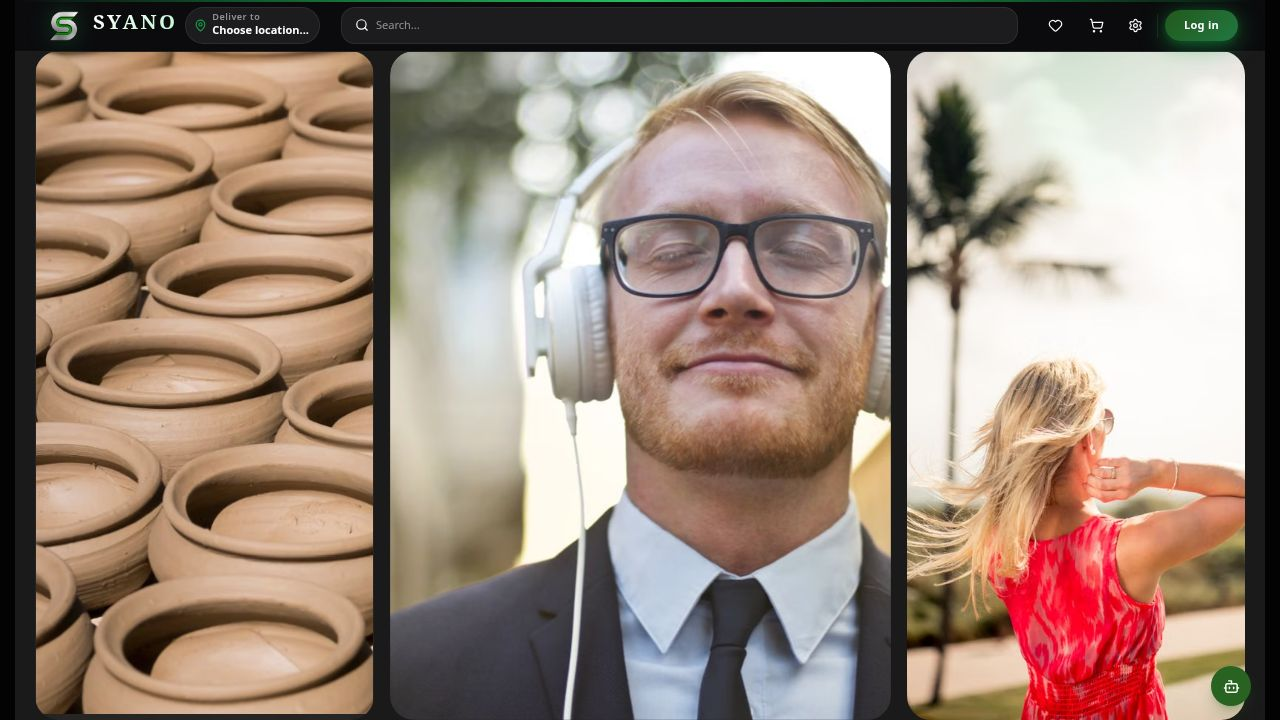
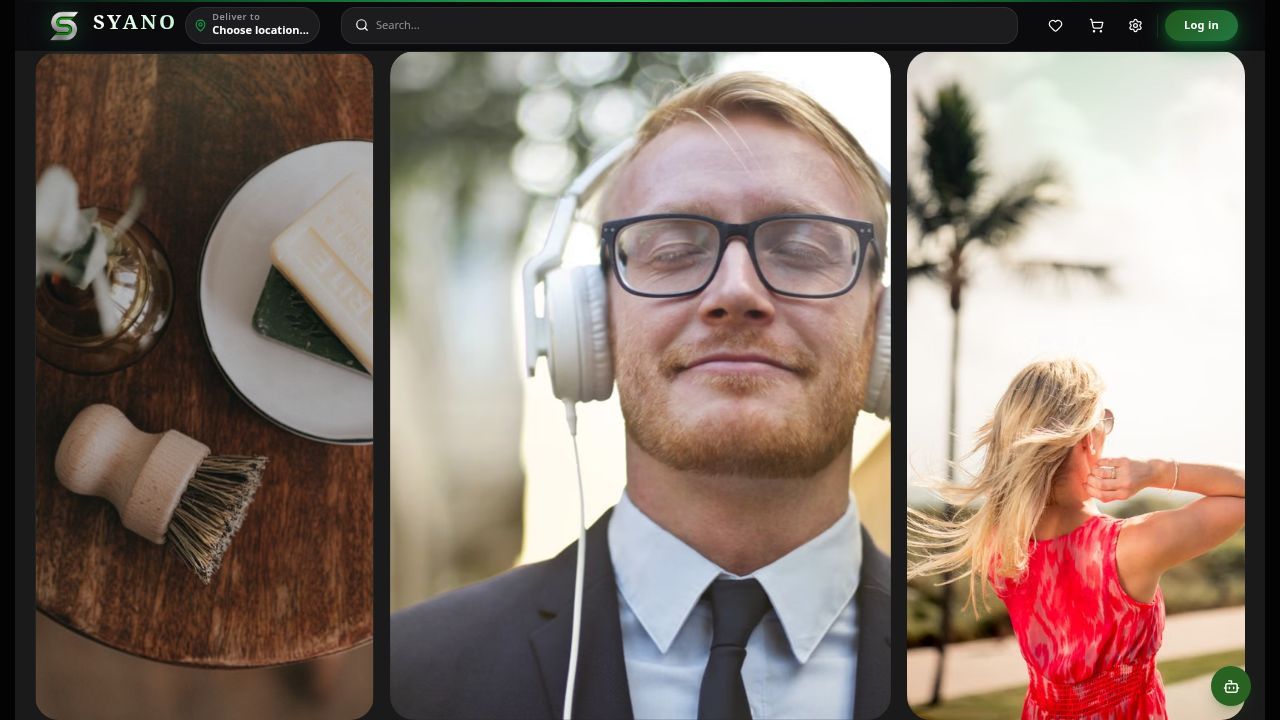
Update page styling to match Amazon's design and add free delivery text
Implement Amazon's color palette and styling for various sections, add a free delivery internationalization key, and refine product card appearance.

Replit-Commit-Author: Agent
Replit-Commit-Session-Id: 41072254-4bb2-4764-a614-758754c8e1fd
Replit-Commit-Checkpoint-Type: full_checkpoint
Replit-Commit-Event-Id: 6e24b812-11f0-4dce-88ef-951021056d8f
Replit-Commit-Screenshot-Url: https://storage.googleapis.com/screenshot-production-us-central1/65cc24d1-8488-4917-8083-2d32bd9a6540/41072254-4bb2-4764-a614-758754c8e1fd/zNmiafK
Replit-Helium-Checkpoint-Created: true

Changed region(s): [[0.0, 0.0611, 0.3125, 1.0]]

diff --git a/artifacts/marketplace/src/pages/luxury-landing.tsx b/artifacts/marketplace/src/pages/luxury-landing.tsx
@@ -184,6 +184,24 @@ const CL = {
   greenGlow:  "rgba(22,163,74,0.14)",
 } as const;
 
+/* ─── Amazon palette — used for mid-page sections (widget/carousel/stores) ───
+   Exactly matches Amazon.com: #EAEDED gray page, white panels, near-black text,
+   Amazon teal #007185 for links, red #B12704 for prices.                      */
+const CA = {
+  bg:         "#EAEDED",
+  card:       "#FFFFFF",
+  card2:      "#F0F2F2",
+  white:      "#0F1111",
+  offWhite:   "#111111",
+  muted:      "#565959",
+  dimmed:     "#888C8C",
+  border:     "#DDDDDD",
+  borderHov:  "#AAAAAA",
+  green:      "#007185",
+  greenAlpha: "rgba(0,113,133,0.08)",
+  greenGlow:  "rgba(0,113,133,0.15)",
+} as const;
+
 /* ─── Color token type — string-valued so both C (dark) and CL (light) fit ─*/
 type ColorTokens = { [K in keyof typeof C]: string };
 
@@ -447,8 +465,8 @@ function AmzSectionHeader({ title, seeAllKey, seeAllHref }: { title: string; see
 }
 
 /* ─── Amazon-style product card ──────────────────────────────────────────────
-   Image dominant square, price in green, discount badge top-right.
-   Optional rank badge (top-left) for best-sellers section.                  */
+   White panel, clean image, star rating row, red deal price.
+   Matches Amazon.com product card layout exactly.                            */
 const AmzProductCard = memo(function AmzProductCard({
   id, name, price, originalPrice, discountPercent, img, category, rank,
 }: {
@@ -456,37 +474,68 @@ const AmzProductCard = memo(function AmzProductCard({
   discountPercent?: number | null; img: string; category: string; rank?: number;
 }) {
   const { format } = useCurrency();
+  const { t } = useTranslation();
   const colors = useContext(LuxColorCtx);
+  /* Pseudo-random rating seeded from product id: 3.8 – 4.9 */
+  const rating  = Math.round((3.8 + (id % 11) * 0.1) * 10) / 10;
+  const reviews = ((id * 137 + 23) % 8800) + 120;
+  const fullStars  = Math.floor(rating);
+  const halfStar   = rating - fullStars >= 0.5;
+  const isDeal     = !!(discountPercent && discountPercent > 0);
+  const priceColor = isDeal ? "#B12704" : colors.white;
+
   return (
     <Link href={`/products/${id}`} style={{ display: "block", textDecoration: "none", height: "100%" }}>
-      <div className="amz-card-hover" style={{ background: colors.card, border: `1px solid ${colors.border}`, borderRadius: "8px", overflow: "hidden", boxShadow: "0 2px 6px rgba(0,0,0,0.11)", height: "100%", display: "flex", flexDirection: "column", transition: "box-shadow 0.2s, transform 0.18s" }}>
-        {/* Square image */}
-        <div style={{ position: "relative", aspectRatio: "1/1", overflow: "hidden", background: colors.card2, flexShrink: 0 }}>
-          {img && <img src={img} alt={name} loading="lazy" decoding="async" style={{ position: "absolute", inset: 0, width: "100%", height: "100%", objectFit: "cover", transition: "transform 0.45s" }} />}
-          {/* Rank badge (top-start) */}
-          {rank !== undefined && (
-            <div style={{ position: "absolute", top: 8, insetInlineStart: 8, width: 26, height: 26, borderRadius: "50%", background: rank < 3 ? colors.green : colors.card, border: rank < 3 ? "none" : `1.5px solid ${colors.border}`, display: "flex", alignItems: "center", justifyContent: "center", boxShadow: "0 1px 4px rgba(0,0,0,0.25)" }}>
-              <span style={{ fontFamily: F.sans, fontWeight: 900, fontSize: "0.65rem", color: rank < 3 ? "#fff" : colors.muted }}>{rank + 1}</span>
+      <div className="amz-card-hover" style={{ background: colors.card, border: `1px solid ${colors.border}`, borderRadius: 4, overflow: "hidden", height: "100%", display: "flex", flexDirection: "column" }}>
+        {/* ── Product image — no gradient, clean white bg ── */}
+        <div style={{ position: "relative", aspectRatio: "1/1", overflow: "hidden", background: "#fff", flexShrink: 0 }}>
+          {img
+            ? <img src={img} alt={name} loading="lazy" decoding="async" style={{ position: "absolute", inset: 0, width: "100%", height: "100%", objectFit: "contain", padding: 8 }} />
+            : <div style={{ position: "absolute", inset: 0, background: "#f0f0f0" }} />
+          }
+          {/* Discount badge */}
+          {isDeal && (
+            <div style={{ position: "absolute", top: 6, insetInlineEnd: 6, background: "#CC0C39", borderRadius: 3, padding: "2px 6px" }}>
+              <span style={{ fontFamily: F.sans, fontWeight: 700, fontSize: "0.65rem", color: "#fff" }}>-{discountPercent}%</span>
             </div>
           )}
-          {/* Discount badge (top-end) — only when no rank badge */}
-          {discountPercent && discountPercent > 0 && rank === undefined && (
-            <div style={{ position: "absolute", top: 8, insetInlineEnd: 8, background: "#CC0C39", borderRadius: "4px", padding: "2px 7px" }}>
-              <span style={{ fontFamily: F.sans, fontWeight: 800, fontSize: "0.65rem", color: "#fff" }}>-{discountPercent}%</span>
+          {/* Rank #1 Best Seller tag */}
+          {rank === 0 && (
+            <div style={{ position: "absolute", top: 0, insetInlineStart: 0, background: "#CC8700", padding: "2px 7px" }}>
+              <span style={{ fontFamily: F.sans, fontWeight: 700, fontSize: "0.6rem", color: "#fff", letterSpacing: "0.03em" }}>#1 Best Seller</span>
             </div>
           )}
         </div>
-        {/* Info */}
-        <div style={{ padding: "0.7rem 0.85rem 0.9rem", flex: 1, display: "flex", flexDirection: "column", gap: "0.25rem" }}>
-          {category && (
-            <p style={{ fontFamily: F.sans, fontWeight: 400, fontSize: "9px", color: colors.dimmed, margin: 0, textTransform: "uppercase", letterSpacing: "0.06em", whiteSpace: "nowrap", overflow: "hidden", textOverflow: "ellipsis" }}>{category}</p>
-          )}
-          <h3 style={{ fontFamily: F.sans, fontWeight: 600, fontSize: "0.82rem", color: colors.white, lineHeight: 1.45, margin: 0, display: "-webkit-box", WebkitLineClamp: 2, WebkitBoxOrient: "vertical", overflow: "hidden", flex: 1 }}>{name}</h3>
-          <div style={{ marginTop: "auto", paddingTop: "0.4rem" }}>
-            <div style={{ fontFamily: F.sans, fontWeight: 800, fontSize: "1rem", color: colors.green, letterSpacing: "-0.02em" }} translate="no">{format(price)}</div>
+        {/* ── Product info ── */}
+        <div style={{ padding: "8px 10px 12px", flex: 1, display: "flex", flexDirection: "column", gap: 3 }}>
+          {/* Name */}
+          <p style={{ fontFamily: F.sans, fontWeight: 400, fontSize: "0.82rem", color: colors.white, lineHeight: 1.4, margin: 0, display: "-webkit-box", WebkitLineClamp: 2, WebkitBoxOrient: "vertical", overflow: "hidden", flex: 1 }}>{name}</p>
+          {/* Stars */}
+          <div style={{ display: "flex", alignItems: "center", gap: 3, marginTop: 2 }}>
+            <span style={{ fontSize: "0.75rem", letterSpacing: "-1px", lineHeight: 1 }}>
+              {Array.from({ length: 5 }, (_, i) => (
+                <span key={i} style={{ color: i < fullStars ? "#FFA41C" : (i === fullStars && halfStar ? "#FFA41C" : "#DDD") }}>
+                  {i < fullStars ? "★" : (i === fullStars && halfStar ? "★" : "☆")}
+                </span>
+              ))}
+            </span>
+            <span style={{ fontFamily: F.sans, fontSize: "0.72rem", color: colors.green, textDecoration: "underline" }}>{reviews.toLocaleString()}</span>
+          </div>
+          {/* Price */}
+          <div style={{ marginTop: 4 }}>
+            <span style={{ fontFamily: F.sans, fontWeight: 700, fontSize: "1.05rem", color: priceColor }} translate="no">
+              {format(price)}
+            </span>
             {originalPrice && originalPrice > price && (
-              <div style={{ fontFamily: F.sans, fontSize: "0.7rem", color: colors.dimmed, textDecoration: "line-through", marginTop: "1px" }} translate="no">{format(originalPrice)}</div>
+              <div style={{ fontFamily: F.sans, fontSize: "0.72rem", color: colors.muted, textDecoration: "line-through" }} translate="no">
+                {format(originalPrice)}
+              </div>
             )}
+          </div>
+          {/* Prime badge (decorative) */}
+          <div style={{ display: "inline-flex", alignItems: "center", gap: 3, marginTop: 2 }}>
+            <span style={{ fontFamily: F.sans, fontSize: "0.65rem", fontStyle: "italic", fontWeight: 700, color: "#00A8E0", letterSpacing: "0.02em" }}>prime</span>
+            <span style={{ fontFamily: F.sans, fontSize: "0.65rem", color: colors.muted }}>{t("home.deals.free_delivery")}</span>
           </div>
         </div>
       </div>
@@ -495,46 +544,42 @@ const AmzProductCard = memo(function AmzProductCard({
 });
 
 /* ─── Amazon-style horizontal carousel row ────────────────────────────────────
-   Uses direction:ltr on the track (RTL carousel fix) so scroll always goes
-   left→right regardless of page dir. Arrow scroll direction never flips.     */
+   Arrow buttons are large semi-transparent circles (exactly like Amazon.com).
+   direction:ltr on track fixes RTL flex axis flip (see rtl-carousel-fix.md). */
 function AmzCarouselRow({ items }: { items: CarouselProduct[] }) {
   const trackRef = useRef<HTMLDivElement>(null);
   const { t } = useTranslation();
-  const colors   = useContext(LuxColorCtx);
 
   const scroll = (dir: -1 | 1) =>
     trackRef.current?.scrollBy({ left: dir * 220, behavior: "smooth" });
 
-  const arrowStyle: React.CSSProperties = {
-    background: colors.card,
-    border: `1px solid ${colors.border}`,
-    color: colors.white,
-    fontSize: "1.15rem",
-    lineHeight: 1,
-    fontWeight: 700,
-    cursor: "pointer",
-    padding: 0,
-    userSelect: "none",
-    WebkitUserSelect: "none",
+  const arrowBtn: React.CSSProperties = {
+    position: "absolute", top: "50%", transform: "translateY(-50%)",
+    zIndex: 10, width: 40, height: 40, borderRadius: "50%",
+    background: "rgba(255,255,255,0.97)",
+    border: "1px solid #D5D9D9",
+    boxShadow: "0 2px 5px 0 rgba(15,17,17,.20)",
+    color: "#0F1111", fontSize: "1.4rem", lineHeight: 1,
+    cursor: "pointer", padding: 0,
   };
-
   return (
-    <div style={{ display: "flex", alignItems: "center", gap: 8 }}>
-      <button className="amz-arrow-btn" aria-label={t("home.carousel.prev")} onClick={() => scroll(-1)} style={arrowStyle}>‹</button>
-      <div ref={trackRef} className="amz-carousel-track" style={{ flex: 1 }}>
+    <div style={{ position: "relative", padding: "0 28px" }}>
+      <button className="amz-arrow-btn" aria-label={t("home.carousel.prev")} onClick={() => scroll(-1)} style={{ ...arrowBtn, left: -4 }}>‹</button>
+      <div ref={trackRef} className="amz-carousel-track">
         {items.map((item, i) => (
           <div key={`${item.id}-${i}`} className="amz-carousel-item">
             <AmzProductCard {...item} />
           </div>
         ))}
       </div>
-      <button className="amz-arrow-btn" aria-label={t("home.carousel.next")} onClick={() => scroll(1)} style={arrowStyle}>›</button>
+      <button className="amz-arrow-btn" aria-label={t("home.carousel.next")} onClick={() => scroll(1)} style={{ ...arrowBtn, right: -4 }}>›</button>
     </div>
   );
 }
 
 /* ─── Amazon widget panel (single placard) ────────────────────────────────────
-   White card: bold title → 2×2 image sub-grid → "Shop more" link.           */
+   Exactly matches Amazon.com: bold dark title, 2×2 image+label grid,
+   blue "Shop more" link at the bottom. All on white `#FFFFFF` background.   */
 function AmzWidgetPanel({
   panel, index,
 }: {
@@ -542,50 +587,44 @@ function AmzWidgetPanel({
   index: number;
 }) {
   const { t } = useTranslation();
-  const colors = useContext(LuxColorCtx);
   return (
-    <motion.div
-      initial={{ opacity: 0, y: 18 }}
-      whileInView={{ opacity: 1, y: 0 }}
-      viewport={{ once: true, margin: "-20px" }}
-      transition={{ duration: 0.38, delay: index * 0.07, ease: fadeEase }}
-      style={{ background: colors.card, border: `1px solid ${colors.border}`, borderRadius: 8, display: "flex", flexDirection: "column", overflow: "hidden", boxShadow: "0 1px 4px rgba(0,0,0,0.08)" }}
-    >
-      {/* Title */}
-      <div style={{ padding: "14px 14px 10px" }}>
-        <h2 style={{ fontFamily: F.naskh, fontWeight: 800, fontSize: "clamp(0.92rem,1.6vw,1.05rem)", color: colors.white, margin: 0, whiteSpace: "nowrap", overflow: "hidden", textOverflow: "ellipsis" }}>
-          {t(panel.titleKey)}
-        </h2>
-      </div>
+    <div style={{ background: "#FFFFFF", borderRadius: 4, display: "flex", flexDirection: "column", overflow: "hidden", padding: "14px 14px 10px" }}>
+      {/* Bold title */}
+      <h2 style={{ fontFamily: F.naskh, fontWeight: 700, fontSize: "clamp(0.9rem,1.6vw,1.05rem)", color: "#0F1111", margin: "0 0 12px", whiteSpace: "nowrap", overflow: "hidden", textOverflow: "ellipsis" }}>
+        {t(panel.titleKey)}
+      </h2>
       {/* 2×2 image grid */}
-      <div className="amz-widget-2x2" style={{ padding: "0 8px", flex: 1 }}>
+      <div className="amz-widget-2x2" style={{ flex: 1, gap: 6 }}>
         {panel.items.map((item, i) => (
           <Link key={i} href={panel.seeAllHref} style={{ display: "block", textDecoration: "none" }}>
-            <div style={{ aspectRatio: "1/1", overflow: "hidden", borderRadius: 3, background: colors.card2 }}>
-              <img src={item.img} alt={t(item.labelKey)} loading={index === 0 && i < 2 ? "eager" : "lazy"} decoding="async"
-                style={{ width: "100%", height: "100%", objectFit: "cover", display: "block" }} />
+            <div style={{ aspectRatio: "1/1", overflow: "hidden", borderRadius: 3, background: "#F0F2F2" }}>
+              <img
+                src={item.img}
+                alt={t(item.labelKey)}
+                loading={index === 0 && i < 2 ? "eager" : "lazy"}
+                decoding="async"
+                style={{ width: "100%", height: "100%", objectFit: "cover", display: "block" }}
+              />
             </div>
-            <p style={{ fontFamily: F.sans, fontWeight: 400, fontSize: "10px", color: colors.muted, margin: "3px 0 5px", textAlign: "center", overflow: "hidden", textOverflow: "ellipsis", whiteSpace: "nowrap" }}>
+            <p style={{ fontFamily: F.sans, fontWeight: 400, fontSize: "11px", color: "#0F1111", margin: "4px 0 6px", textAlign: "center", overflow: "hidden", textOverflow: "ellipsis", whiteSpace: "nowrap" }}>
               {t(item.labelKey)}
             </p>
           </Link>
         ))}
       </div>
-      {/* "See more" footer */}
-      <div style={{ padding: "8px 14px 14px" }}>
-        <Link href={panel.seeAllHref}
-          style={{ fontFamily: F.sans, fontWeight: 500, fontSize: "0.78rem", color: colors.green, textDecoration: "none", display: "inline-flex", alignItems: "center", gap: 4 }}>
-          {t("home.categories.see_all")} <ArrowLeft style={{ width: 11, height: 11 }} />
+      {/* "See more" link — Amazon teal */}
+      <div style={{ marginTop: 8 }}>
+        <Link href={panel.seeAllHref} style={{ fontFamily: F.sans, fontWeight: 400, fontSize: "0.8rem", color: "#007185", textDecoration: "none" }}>
+          {t("home.categories.see_all")} →
         </Link>
       </div>
-    </motion.div>
+    </div>
   );
 }
 
-/** Countdown timer for deals section */
+/** Countdown timer for deals section — Amazon red style */
 function LuxCountdownTimer() {
   const { t } = useTranslation();
-  const colors = useContext(LuxColorCtx);
   const [time, setTime] = useState({ h: 8, m: 24, s: 37 });
   useEffect(() => {
     const id = setInterval(() => {
@@ -598,16 +637,16 @@ function LuxCountdownTimer() {
     return () => clearInterval(id);
   }, []);
   return (
-    <div style={{ display: "flex", alignItems: "center", gap: "0.5rem", marginTop: "0.75rem" }}>
-      <Timer style={{ width: 13, height: 13, color: colors.dimmed, flexShrink: 0 }} />
-      <span style={{ fontFamily: F.sans, fontSize: "0.75rem", color: colors.dimmed }}>{t("home.deals.ends_in")}</span>
-      <div style={{ display: "flex", alignItems: "center", gap: "4px" }}>
+    <div style={{ display: "flex", alignItems: "center", gap: "0.4rem" }}>
+      <Timer style={{ width: 13, height: 13, color: "#CC0C39", flexShrink: 0 }} />
+      <span style={{ fontFamily: F.sans, fontSize: "0.75rem", color: "#565959" }}>{t("home.deals.ends_in")}</span>
+      <div style={{ display: "flex", alignItems: "center", gap: "2px" }}>
         {[pad(time.h), pad(time.m), pad(time.s)].map((val, i) => (
-          <span key={i} style={{ display: "flex", alignItems: "center", gap: "4px" }}>
-            <span style={{ fontWeight: 700, fontSize: "0.78rem", fontVariantNumeric: "tabular-nums", color: colors.white, background: colors.greenAlpha, border: `1px solid ${colors.border}`, padding: "2px 8px", borderRadius: "6px", minWidth: "2rem", textAlign: "center", letterSpacing: "0.04em" }}>
+          <span key={i} style={{ display: "flex", alignItems: "center", gap: "2px" }}>
+            <span style={{ fontFamily: F.sans, fontWeight: 700, fontSize: "0.82rem", fontVariantNumeric: "tabular-nums", color: "#CC0C39", background: "#FFF0EE", border: "1px solid #FFBDAD", padding: "1px 6px", borderRadius: 3, minWidth: "1.8rem", textAlign: "center" }}>
               {val}
             </span>
-            {i < 2 && <span style={{ color: colors.dimmed, fontWeight: 700, fontSize: "0.8rem" }}>:</span>}
+            {i < 2 && <span style={{ color: "#CC0C39", fontWeight: 700, fontSize: "0.9rem", lineHeight: 1 }}>:</span>}
           </span>
         ))}
       </div>
@@ -685,7 +724,7 @@ const AmzWidgetSection = memo(function AmzWidgetSection() {
   const { i18n } = useTranslation();
   const colors = useContext(LuxColorCtx);
   return (
-    <section style={{ background: colors.bg, padding: "14px 0 0", borderTop: `1px solid ${colors.border}` }} dir={i18n.dir()}>
+    <section style={{ background: colors.bg, padding: "12px 0 0" }} dir={i18n.dir()}>
       <div className="amz-section">
         <div className="amz-widget-grid" style={{ paddingBottom: 14 }}>
           {WIDGET_PANELS.map((panel, i) => (
@@ -777,11 +816,13 @@ const LuxStoresSection = memo(function LuxStoresSection() {
   })), [stores, t]);
 
   return (
-    <section style={{ background: colors.bg, padding: "2.25rem 0", borderTop: `1px solid ${colors.border}` }} dir={i18n.dir()}>
+    <section style={{ background: colors.bg, padding: "14px 0" }} dir={i18n.dir()}>
       <div className="amz-section">
-        <AmzSectionHeader title={t("home.stores.title")} seeAllKey="home.stores.see_all" seeAllHref="/sellers/directory" />
-        <div className="amz-stores-3">
-          {displayStores.map((store, i) => <LuxStoreCard key={store.id} store={store} index={i} />)}
+        <div style={{ background: colors.card, borderRadius: 4, padding: "14px 16px 20px" }}>
+          <AmzSectionHeader title={t("home.stores.title")} seeAllKey="home.stores.see_all" seeAllHref="/sellers/directory" />
+          <div className="amz-stores-3">
+            {displayStores.map((store, i) => <LuxStoreCard key={store.id} store={store} index={i} />)}
+          </div>
         </div>
       </div>
     </section>
@@ -1351,12 +1392,14 @@ export default function LuxuryLandingPage() {
             </motion.div>
         </motion.section>
 
-        {/* ── Below-fold sections ────────────────────────────────────────── */}
-        <AmzWidgetSection />
-        <AmzDealsSection deals={hotDeals} />
-        <LuxStoresSection />
-        <AmzBestSellersSection products={trending} />
-        <AmzNewArrivalsSection products={newArrivals} />
+        {/* ── Below-fold: Amazon light theme override ──────────────────── */}
+        <LuxColorCtx.Provider value={CA as ColorTokens}>
+          <AmzWidgetSection />
+          <AmzDealsSection deals={hotDeals} />
+          <LuxStoresSection />
+          <AmzBestSellersSection products={trending} />
+          <AmzNewArrivalsSection products={newArrivals} />
+        </LuxColorCtx.Provider>
         <LuxJoinSection />
         <LuxFooterBar />
       </div>